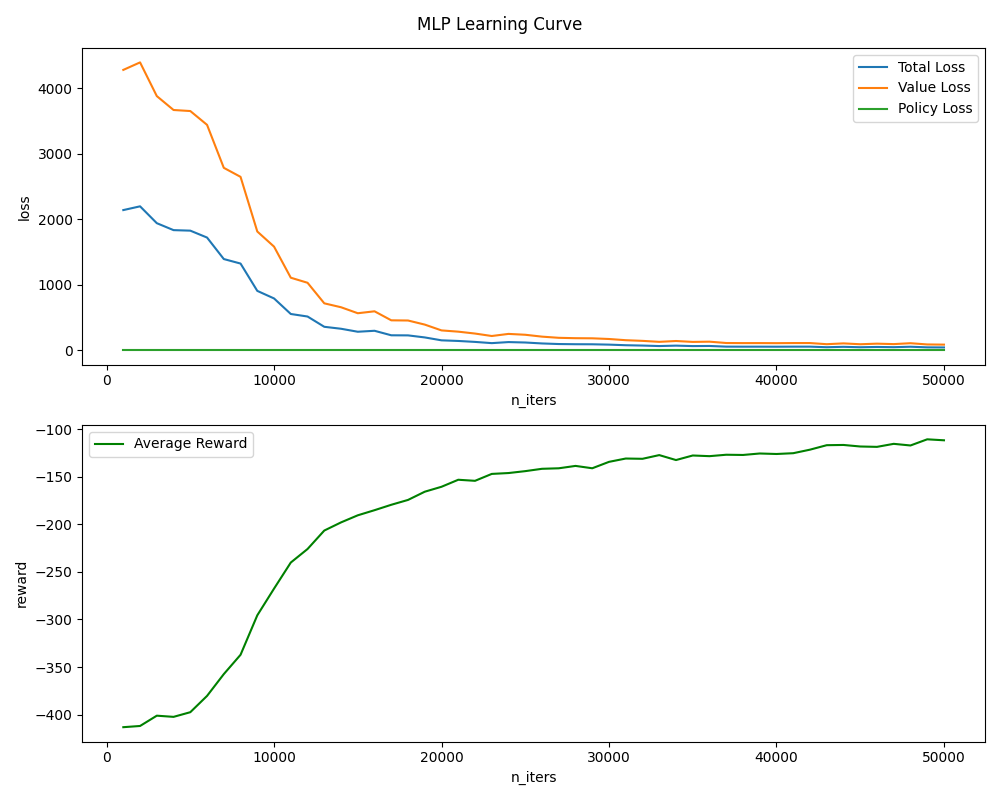
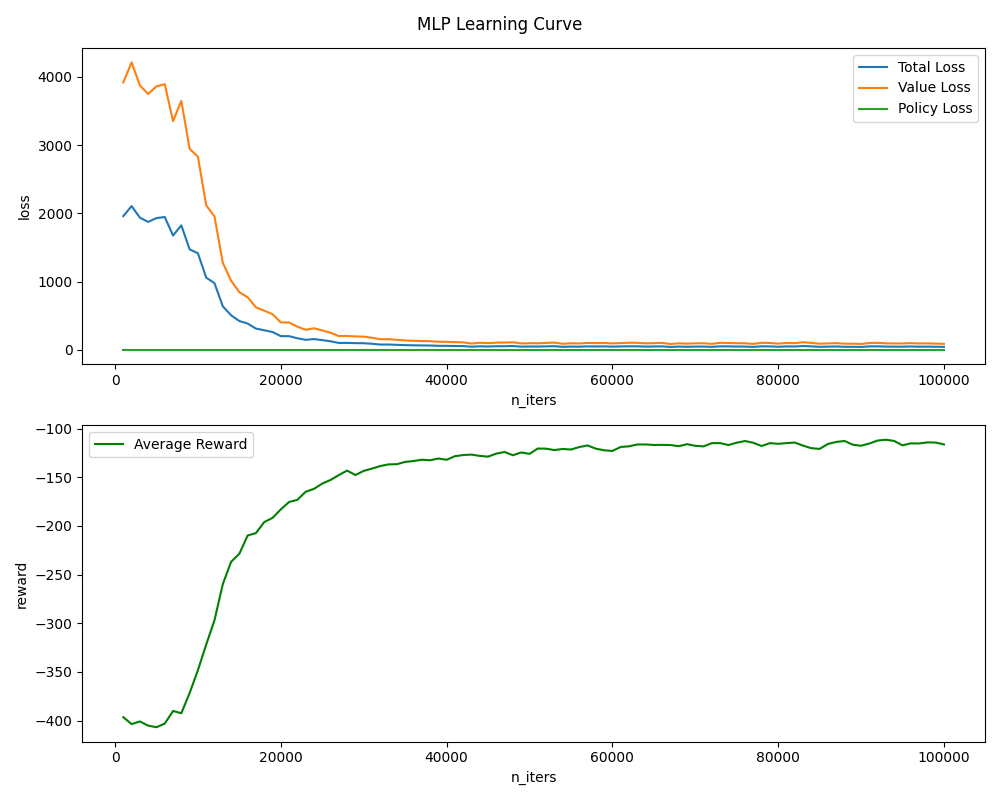
good convergence with 100k evals

diff --git a/feynman_report.py b/feynman_report.py
@@ -75,7 +75,7 @@ def evaluate_model(model, eval_seeds, device):
 def main():
     train_seed = 42
     eval_seeds = range(10)
-    max_evals = 50000
+    max_evals = 100000
     env_bs = 1000
     hidden_size = 32
     device = torch.device("cuda" if torch.cuda.is_available() else "cpu")
